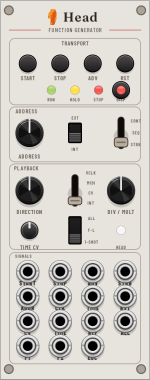
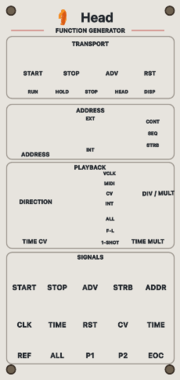
Update SpaceTime RC2 release and manuals

diff --git a/spacetime/manual/midi.html b/spacetime/manual/midi.html
@@ -27,7 +27,7 @@
   <a class="nav-devlog" href="/devlog/">Devlog</a>
 </nav></div></header>
   <main class="manual-layout">
-    <nav class="manual-nav" aria-label="SpaceTime manual"><h2>SpaceTime manual</h2><a href="/spacetime/manual/">Overview</a><a href="/spacetime/manual/program.html">Program</a><a href="/spacetime/manual/stage4.html">Stage4</a><a href="/spacetime/manual/head.html">Head</a><a href="/spacetime/manual/head-all.html">Head All</a><a href="/spacetime/manual/midi.html" aria-current="page">MIDI</a><a href="/spacetime/manual/glue-left.html">Glue Left</a><a href="/spacetime/manual/glue-right.html">Glue Right</a></nav>
+    <nav class="manual-nav" aria-label="SpaceTime manual"><h2>SpaceTime manual</h2><a href="/spacetime/manual/">Overview</a><a href="/spacetime/manual/program.html">Program</a><a href="/spacetime/manual/stage4.html">Stage4</a><a href="/spacetime/manual/stage-time.html">Stage Time</a><a href="/spacetime/manual/head.html">Head</a><a href="/spacetime/manual/head-all.html">Head All</a><a href="/spacetime/manual/midi.html" aria-current="page">MIDI</a><a href="/spacetime/manual/glue-left.html">Glue Left</a><a href="/spacetime/manual/glue-right.html">Glue Right</a></nav>
     <article class="manual-article">
       <img class="manual-shot" src="/assets/modules/midi-light.png?v=20260821-1" alt="SpaceTime MIDI module with light panel">
       <p class="eyebrow">4 HP controller and instrument gateway</p>
@@ -40,14 +40,15 @@
       <h2>Device and channels</h2>
       <table><thead><tr><th>Traffic</th><th>Channel</th></tr></thead><tbody>
         <tr><td>Program controls and presets</td><td>Channel 16 by default; configurable 1–16 in the context menu.</td></tr>
-        <tr><td>Stage sliders</td><td>Channel 15 by default; configurable 1–16. It must differ from the Program channel.</td></tr>
-        <tr><td>Head 1–8 controls</td><td>Fixed channels 1–8 respectively.</td></tr>
-        <tr><td>Head All controls</td><td>Fixed channel 9; CC 0–12 broadcast to all Heads.</td></tr>
+        <tr><td>Stage sliders</td><td>Channel 15 by default; configurable 1–16. It must differ from Program and active Head channels.</td></tr>
+        <tr><td>Head 1–8 controls</td><td>Configurable contiguous range; defaults to channels 1–8. Set the start channel in the MIDI context menu.</td></tr>
+        <tr><td>Head All controls</td><td>Program channel CC 32–44 broadcasts Head CC 0–12 to every Head.</td></tr>
         <tr><td>Clock and transport</td><td>MIDI System Realtime; channel-independent.</td></tr>
-        <tr><td>Head output lanes</td><td>Independently selectable channels 1–16.</td></tr>
+        <tr><td>Head output lanes</td><td>Each Head's output channel is independently selectable from 1–16.</td></tr>
+        <tr><td>Controller feedback</td><td>Separate MIDI output; replies follow the configured Program, Stage, and Head channels.</td></tr>
       </tbody></table>
-      <p>Channel 9 reuses CC 0–12 as HEAD ALL commands. CC 13 is ignored on that channel because Display ownership remains exclusive to one Head. Channels 10–14 remain free under the default allocation.</p>
-      <p>The Rack MIDI input is forced to All channels so SpaceTime can route Program, stage, and head traffic itself. The panel readout prefixes the current channels with <strong>P</strong> and <strong>S</strong>.</p>
+      <p>By default, channels 1–8 carry Head controls, channel 15 carries Stage sliders, and channel 16 carries Program commands. Channels 9–14 are free. Program may share a channel with one of its Heads because their CC ranges differ. The Stage channel cannot overlap Program or any active Head. The Head-start setting is limited so the active range never wraps past channel 16.</p>
+      <p>The MIDI module context menu sets the Program channel, Stage channel, contiguous Head channel start, and each Head's output lane. The <strong>HEAD N output</strong> submenu selects its mode, channel, note gate source, and CC number. The Rack MIDI input is forced to All channels. The panel readout shows the Program, Head-start, and Stage channels.</p>
 
       <h2>Stage sliders</h2>
       <table><thead><tr><th>CC range</th><th>Target</th></tr></thead><tbody>
@@ -68,6 +69,8 @@
         <tr><td>89</td><td>Key C through B.</td></tr>
         <tr><td>90</td><td>Major, Minor, or Chromatic scale.</td></tr>
         <tr><td>91</td><td>Pulse Retrig off / on.</td></tr>
+        <tr><td>92</td><td>Hold Select: 64–127 holds; 0–63 releases. Modifier presses apply to all stages while held.</td></tr>
+        <tr><td>93</td><td>Pulse/retrigger duration, 0.1–15 ms; 1 ms at midpoint.</td></tr>
       </tbody></table>
       <p>Program Change 1–12 recalls preset slots 1–12 on the Program-controls channel.</p>
 
@@ -84,14 +87,18 @@
         <tr><td>11</td><td>Time CV amount.</td></tr>
         <tr><td>12</td><td>One-shot / First–Last / full-chain loop mode.</td></tr>
         <tr><td>13</td><td>Display latch.</td></tr>
+        <tr><td>18</td><td>Continuous time multiplier, ×0.5 to ×4; midpoint is ×1.</td></tr>
       </tbody></table>
 
       <h2>Realtime clock and transport</h2>
       <p>F8 supplies MIDI Clock to heads whose clock source is MIDI. FA Start, FB Continue, and FC Stop affect only heads with <strong>Follow MIDI transport</strong> enabled.</p>
       <div class="callout">The current implementation advances from individual F8 edges through the Head Div/Mult setting. A separate musical 24 PPQN interpretation layer is not part of version 2.0.0.</div>
 
+      <h2>Controller feedback</h2>
+      <p>Select a separate feedback output in the MIDI module context menu. It is Off by default. Snapshot requests use the configured Program channel: CC 50 requests a Head (value 0–7) or all Heads (8); CC 51 requests Program; CC 52 requests a Stage page (0–7); and CC 53 probes the protocol version. Replies use the configured Head, Stage, and Program channels. CC 117 returns the development version byte; CC 118/119 frame explicit snapshots. Program state uses feedback CC 94–113, and stage slider values use CC 0–127 on the configured Stage channel.</p>
+
       <h2>Per-head output</h2>
-      <p>Configure each of eight lanes from <strong>HEAD n output</strong> in the context menu.</p>
+      <p>Configure each of eight lanes from the MIDI module's <strong>HEAD N output</strong> submenu.</p>
       <table><thead><tr><th>Mode</th><th>Behavior</th></tr></thead><tbody>
         <tr><td>Off</td><td>No output; any active note is released.</td></tr>
         <tr><td>Notes</td><td>Quantized Head CV becomes MIDI note number with 0 V = note 60. Gate source is Pulse 1, Pulse 2, or All.</td></tr>

diff --git a/spacetime/manual/stage-time.html b/spacetime/manual/stage-time.html
@@ -1,0 +1,56 @@
+<!doctype html>
+<html lang="en">
+<head>
+  <meta charset="utf-8"><meta name="viewport" content="width=device-width, initial-scale=1">
+  <title>Stage Time — SpaceTime Manual</title>
+  <meta name="description" content="SpaceTime Stage Time module manual: per-stage free and synchronized note-division timing, selected-stage tracking, and instrument routing.">
+  <link rel="icon" href="/assets/kurkesmurfer-logo.svg?v=20260821-1" type="image/svg+xml">
+  <script src="/assets/site-theme.js?v=20260821-1"></script>
+  <link rel="stylesheet" href="/assets/site.css?v=20260821-1">
+</head>
+<body>
+  <header class="site-header"><div class="header-inner"><a class="brand-link" href="/"><img src="/assets/kurkesmurfer-logo.svg?v=20260821-1" alt=""><span>Kurkesmurfer</span></a>
+<nav class="site-nav" aria-label="Primary navigation">
+  <a class="nav-home" href="/">Collection</a>
+  <details class="plugin-menu">
+    <summary aria-current="page">Plugins</summary>
+    <div class="plugin-menu-list">
+      <a href="/spacetime/" aria-current="page">SpaceTime</a>
+      <a href="/homodyne/">Homodyne</a>
+      <a href="/muse/">Muse</a>
+      <a href="/inflection/">Inflection</a>
+      <a href="/multiphaser/">MultiPhaser</a>
+    </div>
+  </details>
+  <a class="nav-manuals" href="/manuals/">Manuals</a>
+  <a class="nav-metamodule" href="/metamodule/">MetaModule</a>
+  <a class="nav-devlog" href="/devlog/">Devlog</a>
+</nav></div></header>
+  <main class="manual-layout">
+    <nav class="manual-nav" aria-label="SpaceTime manual"><h2>SpaceTime manual</h2><a href="/spacetime/manual/">Overview</a><a href="/spacetime/manual/program.html">Program</a><a href="/spacetime/manual/stage4.html">Stage4</a><a href="/spacetime/manual/stage-time.html" aria-current="page">Stage Time</a><a href="/spacetime/manual/head.html">Head</a><a href="/spacetime/manual/head-all.html">Head All</a><a href="/spacetime/manual/midi.html">MIDI</a><a href="/spacetime/manual/glue-left.html">Glue Left</a><a href="/spacetime/manual/glue-right.html">Glue Right</a></nav>
+    <article class="manual-article">
+      <p class="eyebrow">10 HP timing companion</p>
+      <h1>Stage Time</h1>
+      <p class="intro">Stage Time sets the timing interpretation of the stage selected in Program. It follows that selection, so the mode can be programmed one stage at a time without adding controls to the Head.</p>
+
+      <h2>FREE and SYNC</h2>
+      <table><thead><tr><th>Mode</th><th>Meaning</th></tr></thead><tbody>
+        <tr><td>FREE</td><td>The Stage4 time slider and its selected range set the stage interval as usual.</td></tr>
+        <tr><td>SYNC</td><td>The same slider selects one of nine note divisions, from 1/64 through 4/1. Stage4 displays the selected division and note symbol above the slider.</td></tr>
+      </tbody></table>
+      <p>Move the spring-return switch up to set FREE or down to set SYNC. The upper and lower red LEDs show the stored mode; the switch itself returns to center.</p>
+
+      <h2>How the Head interprets SYNC</h2>
+      <p>The Head playing the stage supplies the clock source. With External, MIDI, or Virtual clock, the Head's Div / Mult setting selects the base clock rate and the stage division scales it. With an Internal clock, the current slider value supplies the free-time base and the selected division scales that interval. The Head's Time Mult control scales the resulting interval further.</p>
+      <p>Stage duration does not stretch the stage-address range: each address still selects one stage.</p>
+
+      <h2>Selection and instrument ID</h2>
+      <p>The number display follows Program's selected stage. When placed beside Program, Stage Time follows that Program's instrument ID automatically. Its bottom selector can change the ID when used standalone or when routing among multiple SpaceTime instances.</p>
+
+      <h2>Apply to all stages</h2>
+      <p>Stage Time mode edits use Program's normal all-stage edit behavior. Arm <strong>Apply next edit to ALL stages</strong> in Program, then set FREE or SYNC once to apply that mode to every stage.</p>
+    </article>
+  </main>
+  <footer class="site-footer"><div class="footer-inner"><a href="/spacetime/manual/stage4.html">Previous: Stage4</a><a href="/spacetime/manual/head.html">Next: Head</a></div></footer>
+</body>
+</html>

diff --git a/spacetime/index.html b/spacetime/index.html
@@ -44,7 +44,7 @@
       </div>
       <div class="rack-scene" aria-label="SpaceTime modules arranged as a working chain">
         <img src="/assets/modules/head-all-light.png?v=20260821-1" alt="">
-        <img src="/assets/modules/head-light.png?v=20260821-1" alt="">
+        <img src="/assets/modules/head-light.png?v=20261117-rc2" alt="">
         <img class="midi" src="/assets/modules/midi-light.png?v=20260821-1" alt="">
         <img src="/assets/modules/program-light.png?v=20260821-1" alt="">
         <img src="/assets/modules/stage4-light.png?v=20260821-1" alt="">
@@ -68,14 +68,14 @@
         <div>
           <p class="eyebrow">Downloads</p>
           <h2 class="section-heading">Install SpaceTime manually.</h2>
-          <p class="lede">Download the `.vcvplugin` package for Apple Silicon macOS, Intel macOS, Windows x64, or Linux x64 from GitHub Releases.</p>
+          <p class="lede">The latest provisional test build is <strong>SpaceTime 2.0.0-rc.2</strong>. Download the matching `.vcvplugin` package for Apple Silicon macOS, Intel macOS, Windows x64, or Linux x64 from GitHub Releases.</p>
           <ol>
             <li>In Rack, choose <strong>Help &gt; Open user folder</strong>, then quit Rack.</li>
             <li>Place the package in the matching <code>plugins-&lt;OS&gt;-&lt;CPU&gt;</code> directory. Do not unpack it.</li>
             <li>Restart Rack and find the modules under <strong>Kurkesmurfer</strong>.</li>
           </ol>
           <div class="action-row">
-            <a class="button" href="https://github.com/kurkesmurfer/SpaceTime/releases">Download builds</a>
+            <a class="button" href="https://github.com/kurkesmurfer/SpaceTime/releases/tag/v2.0.0-rc.2">Download 2.0.0-rc.2</a>
             <a class="button secondary" href="/spacetime/manual/">Read the manual</a>
             <a class="button secondary" href="https://github.com/kurkesmurfer/SpaceTime">Source code</a>
           </div>
@@ -95,7 +95,7 @@
     <section class="band" id="modules">
       <div class="inner">
         <p class="eyebrow">Module family</p>
-        <h2 class="section-heading">Seven modules for one instrument.</h2>
+        <h2 class="section-heading">Eight modules for one instrument.</h2>
         <div class="module-grid">
           <article class="module-card">
             <div class="module-image"><img src="/assets/modules/program-light.png?v=20260821-1" alt="Program module with light panel"></div>
@@ -106,8 +106,12 @@
             <div class="module-card-content"><h3>Stage4</h3><p>Four voltage and interval sliders with programming and playhead feedback.</p><a href="/spacetime/manual/stage4.html">Manual</a></div>
           </article>
           <article class="module-card">
-            <div class="module-image"><img src="/assets/modules/head-light.png?v=20260821-1" alt="Head module with light panel"></div>
-            <div class="module-card-content"><h3>Head</h3><p>An independent function-generator playhead with transport, addressing, clocking, and outputs.</p><a href="/spacetime/manual/head.html">Manual</a></div>
+            <div class="module-image module-preview-stage-time"><div><span>FREE</span><b>⇅</b><span>SYNC</span></div></div>
+            <div class="module-card-content"><h3>Stage Time</h3><p>Sets Free or note-division timing for the Program-selected stage.</p><a href="/spacetime/manual/stage-time.html">Manual</a></div>
+          </article>
+          <article class="module-card">
+            <div class="module-image"><img src="/assets/modules/head-light.png?v=20261117-rc2" alt="12 HP Head module with light panel"></div>
+            <div class="module-card-content"><h3>Head</h3><p>12 HP independent function-generator playhead with transport, addressing, clocking, and outputs.</p><a href="/spacetime/manual/head.html">Manual</a></div>
           </article>
           <article class="module-card">
             <div class="module-image"><img src="/assets/modules/head-all-light.png?v=20260821-1" alt="Head All module with light panel"></div>

diff --git a/spacetime/manual/head.html b/spacetime/manual/head.html
@@ -27,10 +27,10 @@
   <a class="nav-devlog" href="/devlog/">Devlog</a>
 </nav></div></header>
   <main class="manual-layout">
-    <nav class="manual-nav" aria-label="SpaceTime manual"><h2>SpaceTime manual</h2><a href="/spacetime/manual/">Overview</a><a href="/spacetime/manual/program.html">Program</a><a href="/spacetime/manual/stage4.html">Stage4</a><a href="/spacetime/manual/head.html" aria-current="page">Head</a><a href="/spacetime/manual/head-all.html">Head All</a><a href="/spacetime/manual/midi.html">MIDI</a><a href="/spacetime/manual/glue-left.html">Glue Left</a><a href="/spacetime/manual/glue-right.html">Glue Right</a></nav>
+    <nav class="manual-nav" aria-label="SpaceTime manual"><h2>SpaceTime manual</h2><a href="/spacetime/manual/">Overview</a><a href="/spacetime/manual/program.html">Program</a><a href="/spacetime/manual/stage4.html">Stage4</a><a href="/spacetime/manual/stage-time.html">Stage Time</a><a href="/spacetime/manual/head.html" aria-current="page">Head</a><a href="/spacetime/manual/head-all.html">Head All</a><a href="/spacetime/manual/midi.html">MIDI</a><a href="/spacetime/manual/glue-left.html">Glue Left</a><a href="/spacetime/manual/glue-right.html">Glue Right</a></nav>
     <article class="manual-article">
-      <img class="manual-shot" src="/assets/modules/head-light.png?v=20260821-1" alt="SpaceTime Head module with light panel">
-      <p class="eyebrow">10 HP function generator</p>
+      <img class="manual-shot" src="/assets/modules/head-light.png?v=20261117-rc2" alt="12 HP SpaceTime Head module with light panel">
+      <p class="eyebrow">12 HP function generator</p>
       <h1>Head</h1>
       <p class="intro">Each Head is an independent route through the stage field. Place one to eight directly left of MIDI or Program.</p>
 
@@ -55,8 +55,9 @@
       <table><thead><tr><th>Control</th><th>Choices</th></tr></thead><tbody>
         <tr><td>Direction</td><td>Forward, Reverse, Pendulum, Random, Brownian</td></tr>
         <tr><td>Clock</td><td>Internal stage time, external CLK input, MIDI Clock, or Virtual Clock from MIDI CC</td></tr>
-        <tr><td>Div / Mult</td><td>/16, /8, /4, /2, ×1, ×2, ×4, ×8, ×16</td></tr>
+        <tr><td>Div / Mult</td><td>/16, /8, /4, /2, ×1, ×2, ×4, ×8, ×16. Sets the base clock rate.</td></tr>
         <tr><td>Time CV</td><td>Bipolar attenuverter for the Time CV input, scaling all stage intervals for this head.</td></tr>
+        <tr><td>Time Mult</td><td>Continuous ×0.5 to ×4, with ×1 at center. Scales each resulting interval.</td></tr>
         <tr><td>Loop</td><td>One-shot, First–Last region, or full chain</td></tr>
       </tbody></table>
 
@@ -82,8 +83,9 @@
         <tr><td>EOC</td><td>End-of-cycle or stop event.</td></tr>
       </tbody></table>
 
-      <h2>MIDI transport</h2>
-      <p>The context menu identifies this head's fixed MIDI channel, shows its last CC, and enables <strong>Follow MIDI transport</strong>. When enabled, global MIDI Start, Stop, and Continue affect this head.</p>
+      <h2>MIDI control</h2>
+      <p>The MIDI module's context menu sets the instance's contiguous HEAD input-channel range. The channel selects this Head by its position in the chain. The Head context menu shows its Head number, last received CC, and <strong>Follow MIDI transport</strong> setting. When enabled, MIDI Start, Stop, and Continue affect this Head.</p>
+      <p>For per-stage SYNC timing, the Stage Time companion sets the Program-selected stage to FREE or SYNC. In SYNC, the stage's time slider selects a note division; this Head's clock source and Div / Mult supply the base clock rate.</p>
     </article>
   </main>
   <footer class="site-footer"><div class="footer-inner"><a href="/spacetime/manual/stage4.html">Previous: Stage4</a><a href="/spacetime/manual/head-all.html">Next: Head All</a></div></footer>

diff --git a/spacetime/manual/index.html b/spacetime/manual/index.html
@@ -37,6 +37,7 @@
       <a href="/spacetime/manual/" aria-current="page">Overview</a>
       <a href="/spacetime/manual/program.html">Program</a>
       <a href="/spacetime/manual/stage4.html">Stage4</a>
+      <a href="/spacetime/manual/stage-time.html">Stage Time</a>
       <a href="/spacetime/manual/head.html">Head</a>
       <a href="/spacetime/manual/head-all.html">Head All</a>
       <a href="/spacetime/manual/midi.html">MIDI</a>
@@ -48,11 +49,12 @@
       <h1>SpaceTime</h1>
       <p class="intro">A multi-playhead arbitrary function generator for VCV Rack 2, built as a family of contiguous modules.</p>
 
-      <div class="callout"><strong>Release candidate:</strong> preview builds may contain defects, including crashes or loss of unsaved patch state. Back up important patches. Installation packages, source code, and issue reporting are available from the <a href="https://github.com/kurkesmurfer/SpaceTime">public GitHub repository</a>.</div>
+      <div class="callout"><strong>SpaceTime 2.0.0-rc.2:</strong> this provisional build may contain defects, including crashes or loss of unsaved patch state. Back up important patches. Download platform packages from the <a href="https://github.com/kurkesmurfer/SpaceTime/releases/tag/v2.0.0-rc.2">GitHub prerelease</a>; report reproducible problems through <a href="https://github.com/kurkesmurfer/SpaceTime/issues">GitHub Issues</a>.</div>
 
       <h2>Placement</h2>
       <p>Build the chain from left to right. Heads sit to the left of Program, Stage4 blocks sit to its right, and the optional MIDI module sits directly left of Program. Optional Head All is the far-left terminal. Head 1 is nearest Program; stage 1 is the first slider on the leftmost Stage4.</p>
       <div class="architecture"><span>Head All (optional)</span><b>→</b><span>Head ×1–8</span><b>→</b><span>MIDI</span><b>→</b><span>Program</span><b>→</b><span>Stage4 ×1–16</span></div>
+      <p>Stage Time is a timing sidecar. Place it beside Program to follow that instance's selected stage and instrument ID.</p>
       <p>A gap or foreign module ends the normal expander chain. A matched Glue Right/Glue Left pair can transport one SpaceTime chain fragment across a gap.</p>
 
       <h2>First patch</h2>
@@ -69,6 +71,8 @@
       <p>Every Stage4 stores its own sliders and stage flags. Reordering blocks reorders the sequence without separating values from their programming.</p>
       <h3>Heads are independent</h3>
       <p>Every Head has its own transport, direction, region, clock source, timing scale, and output set while reading the same stage field.</p>
+      <h3>Stage timing can follow note divisions</h3>
+      <p>Stage Time applies FREE or SYNC to the Program-selected stage. In SYNC, its Stage4 time slider selects a note division, interpreted using the active Head's clock source and Div / Mult setting.</p>
       <h3>Selection edits one stage</h3>
       <p>Program's Select control chooses the edit target. Holding Select while applying a modifier edits every stage. The Program context menu also offers a one-shot “Apply next edit to ALL stages” command.</p>
       <h3>First and Last define regions</h3>
@@ -79,6 +83,7 @@
       <div class="action-row">
         <a class="button secondary" href="/spacetime/manual/program.html">Program</a>
         <a class="button secondary" href="/spacetime/manual/stage4.html">Stage4</a>
+        <a class="button secondary" href="/spacetime/manual/stage-time.html">Stage Time</a>
         <a class="button secondary" href="/spacetime/manual/head.html">Head</a>
         <a class="button secondary" href="/spacetime/manual/head-all.html">Head All</a>
         <a class="button secondary" href="/spacetime/manual/midi.html">MIDI</a>

diff --git a/devlog/2026-11-17-spacetime-rc2.html b/devlog/2026-11-17-spacetime-rc2.html
@@ -1,0 +1,47 @@
+<!doctype html>
+<html lang="en">
+<head>
+  <meta charset="utf-8">
+  <meta name="viewport" content="width=device-width, initial-scale=1">
+  <title>SpaceTime 2.0.0-rc.2 — Kurkesmurfer devlog</title>
+  <meta name="description" content="SpaceTime's latest provisional VCV Rack build adds per-stage note-division timing, configurable MIDI routing, and a 12 HP Head panel.">
+  <link rel="icon" href="/assets/kurkesmurfer-logo.svg?v=20260821-1" type="image/svg+xml">
+  <script src="/assets/site-theme.js?v=20260821-1"></script>
+  <link rel="stylesheet" href="/assets/site.css?v=20260821-1">
+</head>
+<body>
+  <header class="site-header"><div class="header-inner">
+    <a class="brand-link" href="/"><img src="/assets/kurkesmurfer-logo.svg?v=20260821-1" alt=""><span>Kurkesmurfer</span></a>
+<nav class="site-nav" aria-label="Primary navigation">
+  <a class="nav-home" href="/">Collection</a>
+  <details class="plugin-menu"><summary>Plugins</summary><div class="plugin-menu-list">
+    <a href="/spacetime/">SpaceTime</a><a href="/homodyne/">Homodyne</a><a href="/muse/">Muse</a><a href="/inflection/">Inflection</a><a href="/multiphaser/">MultiPhaser</a>
+  </div></details>
+  <a class="nav-manuals" href="/manuals/">Manuals</a><a class="nav-metamodule" href="/metamodule/">MetaModule</a><a class="nav-devlog" href="/devlog/" aria-current="page">Devlog</a>
+</nav>
+  </div></header>
+  <main class="article-layout"><article>
+    <header class="article-header">
+      <p class="entry-meta"><time datetime="2026-11-17">17 November 2026</time> · SpaceTime</p>
+      <h1>SpaceTime 2.0.0-rc.2</h1>
+    </header>
+    <div class="article-body">
+      <p class="intro">The new provisional VCV Rack build is available for Apple Silicon macOS, Intel macOS, Windows x64, and Linux x64.</p>
+      <h2>What's in this build</h2>
+      <ul>
+        <li>Stage Time sets FREE or SYNC for the Program-selected stage. SYNC uses the Stage4 time slider to choose a note division from 1/64 to 4/1.</li>
+        <li>Head Div / Mult sets the base clock rate, and the new Head Time Mult knob continuously scales each resulting interval.</li>
+        <li>Program Pulse Time sets the low retrigger notch and the high pulse durations of ALL and EOC.</li>
+        <li>The MIDI module supports configurable Program, Stage, and contiguous Head input channels. Each Head's MIDI output lane has its own channel setting.</li>
+        <li>The production Head panel is now 12 HP. The 8 HP and 10 HP panels remain design references.</li>
+      </ul>
+      <h2>Platform testing</h2>
+      <p>All four packages were cross-compiled with the VCV Rack Plugin Toolchain. Apple Silicon has passed a Rack smoke test. Native Rack tests on Intel macOS, Windows, and Linux remain to be completed.</p>
+      <p>The current host-side check also needs its MIDI feedback test expectations updated for the configurable channels and feedback map.</p>
+      <div class="callout"><strong>Test build:</strong> back up important patches before use. This prerelease is not a final release.</div>
+      <div class="action-row"><a class="button" href="https://github.com/kurkesmurfer/SpaceTime/releases/tag/v2.0.0-rc.2">Download 2.0.0-rc.2</a><a class="button secondary" href="/spacetime/manual/">SpaceTime manual</a></div>
+    </div>
+  </article></main>
+  <footer class="site-footer"><div class="footer-inner"><a href="/devlog/">Development log</a><a href="https://github.com/kurkesmurfer/SpaceTime">SpaceTime on GitHub</a></div></footer>
+</body>
+</html>

diff --git a/spacetime/manual/program.html b/spacetime/manual/program.html
@@ -27,7 +27,7 @@
   <a class="nav-devlog" href="/devlog/">Devlog</a>
 </nav></div></header>
   <main class="manual-layout">
-    <nav class="manual-nav" aria-label="SpaceTime manual"><h2>SpaceTime manual</h2><a href="/spacetime/manual/">Overview</a><a href="/spacetime/manual/program.html" aria-current="page">Program</a><a href="/spacetime/manual/stage4.html">Stage4</a><a href="/spacetime/manual/head.html">Head</a><a href="/spacetime/manual/head-all.html">Head All</a><a href="/spacetime/manual/midi.html">MIDI</a><a href="/spacetime/manual/glue-left.html">Glue Left</a><a href="/spacetime/manual/glue-right.html">Glue Right</a></nav>
+    <nav class="manual-nav" aria-label="SpaceTime manual"><h2>SpaceTime manual</h2><a href="/spacetime/manual/">Overview</a><a href="/spacetime/manual/program.html" aria-current="page">Program</a><a href="/spacetime/manual/stage4.html">Stage4</a><a href="/spacetime/manual/stage-time.html">Stage Time</a><a href="/spacetime/manual/head.html">Head</a><a href="/spacetime/manual/head-all.html">Head All</a><a href="/spacetime/manual/midi.html">MIDI</a><a href="/spacetime/manual/glue-left.html">Glue Left</a><a href="/spacetime/manual/glue-right.html">Glue Right</a></nav>
     <article class="manual-article">
       <img class="manual-shot" src="/assets/modules/program-light.png?v=20260821-1" alt="SpaceTime Program module with light panel">
       <p class="eyebrow">18 HP programming anchor</p>
@@ -61,7 +61,8 @@
 
       <h2>Interval time and pulses</h2>
       <p>Choose one of four ranges per stage: 0.002–0.03 s, 0.02–0.3 s, 0.2–3 s, or 2–30 s. Time Source selects the Stage4 time slider or one of external inputs A–D; in external mode the time slider chooses the input quartile.</p>
-      <p>Pulse 1 and Pulse 2 flag the selected stage for the corresponding Head outputs. Pulse Retrig defaults on, inserting a brief low notch between adjacent flagged stages. Turn it off to merge adjacent stages into one gate.</p>
+      <p>Pulse 1 and Pulse 2 flag the selected stage for the corresponding Head outputs. Pulse Retrig inserts a low notch between adjacent flagged stages. Its Time control sets the notch and the high-pulse lengths of ALL and EOC together, from 0.1 ms to 15 ms, with 1 ms at midpoint. Turn retrigger off to merge adjacent Pulse 1/2 stages into one gate.</p>
+      <p>The Stage Time companion sets the Program-selected stage to FREE or SYNC. In SYNC, its Stage4 time slider selects one of nine note divisions from 1/64 to 4/1. The selected Head supplies the clock source; its Div / Mult selects the base rate. With an Internal clock, the slider-derived free interval is scaled by the selected division.</p>
 
       <h2>Presets, key, and scale</h2>
       <p>For presets, press Load or Save and then 1–12. Presets store stage programming and slider values in the patch. Recalled slider values use takeover: a physical slider does not regain control until it crosses the stored value.</p>

diff --git a/spacetime/manual/stage4.html b/spacetime/manual/stage4.html
@@ -27,7 +27,7 @@
   <a class="nav-devlog" href="/devlog/">Devlog</a>
 </nav></div></header>
   <main class="manual-layout">
-    <nav class="manual-nav" aria-label="SpaceTime manual"><h2>SpaceTime manual</h2><a href="/spacetime/manual/">Overview</a><a href="/spacetime/manual/program.html">Program</a><a href="/spacetime/manual/stage4.html" aria-current="page">Stage4</a><a href="/spacetime/manual/head.html">Head</a><a href="/spacetime/manual/head-all.html">Head All</a><a href="/spacetime/manual/midi.html">MIDI</a><a href="/spacetime/manual/glue-left.html">Glue Left</a><a href="/spacetime/manual/glue-right.html">Glue Right</a></nav>
+    <nav class="manual-nav" aria-label="SpaceTime manual"><h2>SpaceTime manual</h2><a href="/spacetime/manual/">Overview</a><a href="/spacetime/manual/program.html">Program</a><a href="/spacetime/manual/stage4.html" aria-current="page">Stage4</a><a href="/spacetime/manual/stage-time.html">Stage Time</a><a href="/spacetime/manual/head.html">Head</a><a href="/spacetime/manual/head-all.html">Head All</a><a href="/spacetime/manual/midi.html">MIDI</a><a href="/spacetime/manual/glue-left.html">Glue Left</a><a href="/spacetime/manual/glue-right.html">Glue Right</a></nav>
     <article class="manual-article">
       <img class="manual-shot" src="/assets/modules/stage4-light.png?v=20260821-1" alt="SpaceTime Stage4 module with light panel">
       <p class="eyebrow">10 HP four-stage block</p>
@@ -46,6 +46,8 @@
 
       <h2>Ownership and reordering</h2>
       <p>A Stage4 block owns both its slider values and its four stages of programming. Moving a block moves that four-stage phrase intact. Removing or inserting blocks changes the active stage count immediately.</p>
+      <h2>Free and synchronized timing</h2>
+      <p>Use the Stage Time companion to set the Program-selected stage to FREE or SYNC. FREE uses the time slider and its selected time range as usual. SYNC interprets that slider as one of nine note divisions, shown above the slider. The active Head supplies the clock source and its Div / Mult control selects the base clock rate.</p>
       <div class="callout">A physical gap or foreign module truncates the normal expander chain. Use a matched Glue Right and Glue Left pair when the block must live elsewhere in the rack.</div>
 
       <h2>Preset takeover</h2>

diff --git a/spacetime/manual/head-all.html b/spacetime/manual/head-all.html
@@ -27,7 +27,7 @@
   <a class="nav-devlog" href="/devlog/">Devlog</a>
 </nav></div></header>
   <main class="manual-layout">
-    <nav class="manual-nav" aria-label="SpaceTime manual"><h2>SpaceTime manual</h2><a href="/spacetime/manual/">Overview</a><a href="/spacetime/manual/program.html">Program</a><a href="/spacetime/manual/stage4.html">Stage4</a><a href="/spacetime/manual/head.html">Head</a><a href="/spacetime/manual/head-all.html" aria-current="page">Head All</a><a href="/spacetime/manual/midi.html">MIDI</a><a href="/spacetime/manual/glue-left.html">Glue Left</a><a href="/spacetime/manual/glue-right.html">Glue Right</a></nav>
+    <nav class="manual-nav" aria-label="SpaceTime manual"><h2>SpaceTime manual</h2><a href="/spacetime/manual/">Overview</a><a href="/spacetime/manual/program.html">Program</a><a href="/spacetime/manual/stage4.html">Stage4</a><a href="/spacetime/manual/stage-time.html">Stage Time</a><a href="/spacetime/manual/head.html">Head</a><a href="/spacetime/manual/head-all.html" aria-current="page">Head All</a><a href="/spacetime/manual/midi.html">MIDI</a><a href="/spacetime/manual/glue-left.html">Glue Left</a><a href="/spacetime/manual/glue-right.html">Glue Right</a></nav>
     <article class="manual-article">
       <img class="manual-shot" src="/assets/modules/head-all-light.png?v=20260821-1" alt="SpaceTime Head All module with light panel">
       <p class="eyebrow">10 HP common controller</p>
@@ -59,7 +59,7 @@
       <p>Patching the corresponding input on an individual Head overrides the common normal for that Head.</p>
 
       <h2>MIDI</h2>
-      <p>Fixed MIDI channel 9 broadcasts the Head CC map through CC 0–12, whether or not the Head All panel is installed. CC 13 is ignored because Display ownership is intentionally exclusive. The MIDI channel controls all eight Head slots; only connected Heads can act on the commands.</p>
+      <p>Program-channel CC 32–44 broadcasts Head CC 0–12 to every connected Head, whether or not the Head All panel is installed. CC 45 (Display) is ignored because Display ownership is intentionally exclusive.</p>
     </article>
   </main>
   <footer class="site-footer"><div class="footer-inner"><a href="/spacetime/manual/head.html">Previous: Head</a><a href="/spacetime/manual/midi.html">Next: MIDI</a></div></footer>

diff --git a/spacetime/manual/glue-right.html b/spacetime/manual/glue-right.html
@@ -27,7 +27,7 @@
   <a class="nav-devlog" href="/devlog/">Devlog</a>
 </nav></div></header>
   <main class="manual-layout">
-    <nav class="manual-nav" aria-label="SpaceTime manual"><h2>SpaceTime manual</h2><a href="/spacetime/manual/">Overview</a><a href="/spacetime/manual/program.html">Program</a><a href="/spacetime/manual/stage4.html">Stage4</a><a href="/spacetime/manual/head.html">Head</a><a href="/spacetime/manual/head-all.html">Head All</a><a href="/spacetime/manual/midi.html">MIDI</a><a href="/spacetime/manual/glue-left.html">Glue Left</a><a href="/spacetime/manual/glue-right.html" aria-current="page">Glue Right</a></nav>
+    <nav class="manual-nav" aria-label="SpaceTime manual"><h2>SpaceTime manual</h2><a href="/spacetime/manual/">Overview</a><a href="/spacetime/manual/program.html">Program</a><a href="/spacetime/manual/stage4.html">Stage4</a><a href="/spacetime/manual/stage-time.html">Stage Time</a><a href="/spacetime/manual/head.html">Head</a><a href="/spacetime/manual/head-all.html">Head All</a><a href="/spacetime/manual/midi.html">MIDI</a><a href="/spacetime/manual/glue-left.html">Glue Left</a><a href="/spacetime/manual/glue-right.html" aria-current="page">Glue Right</a></nav>
     <article class="manual-article">
       <img class="manual-shot" src="/assets/modules/glue-right-light.png?v=20260821-1" alt="SpaceTime Glue Right module with light panel">
       <p class="eyebrow">2 HP virtual bridge endpoint</p>

diff --git a/spacetime/manual/glue-left.html b/spacetime/manual/glue-left.html
@@ -27,7 +27,7 @@
   <a class="nav-devlog" href="/devlog/">Devlog</a>
 </nav></div></header>
   <main class="manual-layout">
-    <nav class="manual-nav" aria-label="SpaceTime manual"><h2>SpaceTime manual</h2><a href="/spacetime/manual/">Overview</a><a href="/spacetime/manual/program.html">Program</a><a href="/spacetime/manual/stage4.html">Stage4</a><a href="/spacetime/manual/head.html">Head</a><a href="/spacetime/manual/head-all.html">Head All</a><a href="/spacetime/manual/midi.html">MIDI</a><a href="/spacetime/manual/glue-left.html" aria-current="page">Glue Left</a><a href="/spacetime/manual/glue-right.html">Glue Right</a></nav>
+    <nav class="manual-nav" aria-label="SpaceTime manual"><h2>SpaceTime manual</h2><a href="/spacetime/manual/">Overview</a><a href="/spacetime/manual/program.html">Program</a><a href="/spacetime/manual/stage4.html">Stage4</a><a href="/spacetime/manual/stage-time.html">Stage Time</a><a href="/spacetime/manual/head.html">Head</a><a href="/spacetime/manual/head-all.html">Head All</a><a href="/spacetime/manual/midi.html">MIDI</a><a href="/spacetime/manual/glue-left.html" aria-current="page">Glue Left</a><a href="/spacetime/manual/glue-right.html">Glue Right</a></nav>
     <article class="manual-article">
       <img class="manual-shot" src="/assets/modules/glue-left-light.png?v=20260821-1" alt="SpaceTime Glue Left module with light panel">
       <p class="eyebrow">2 HP virtual bridge endpoint</p>

diff --git a/assets/site.css b/assets/site.css
@@ -599,6 +599,35 @@ a:hover {
   background: var(--surface-module);
 }
 
+.module-preview-stage-time > div {
+  width: 76px;
+  height: 248px;
+  margin-bottom: 14px;
+  border: 1px solid #8f887e;
+  border-radius: 6px;
+  background: #e9e5df;
+  color: #403b35;
+  display: flex;
+  flex-direction: column;
+  align-items: center;
+  justify-content: space-around;
+  font-size: 12px;
+  font-weight: 700;
+  letter-spacing: .08em;
+}
+
+.module-preview-stage-time b {
+  width: 24px;
+  height: 84px;
+  border: 2px solid #766e65;
+  border-radius: 12px;
+  background: linear-gradient(90deg, #211d19 0 30%, #584a40 30% 70%, #211d19 70%);
+  color: #b7afa5;
+  display: grid;
+  place-items: center;
+  font-size: 23px;
+}
+
 .module-card img {
   width: auto;
   height: 280px;
